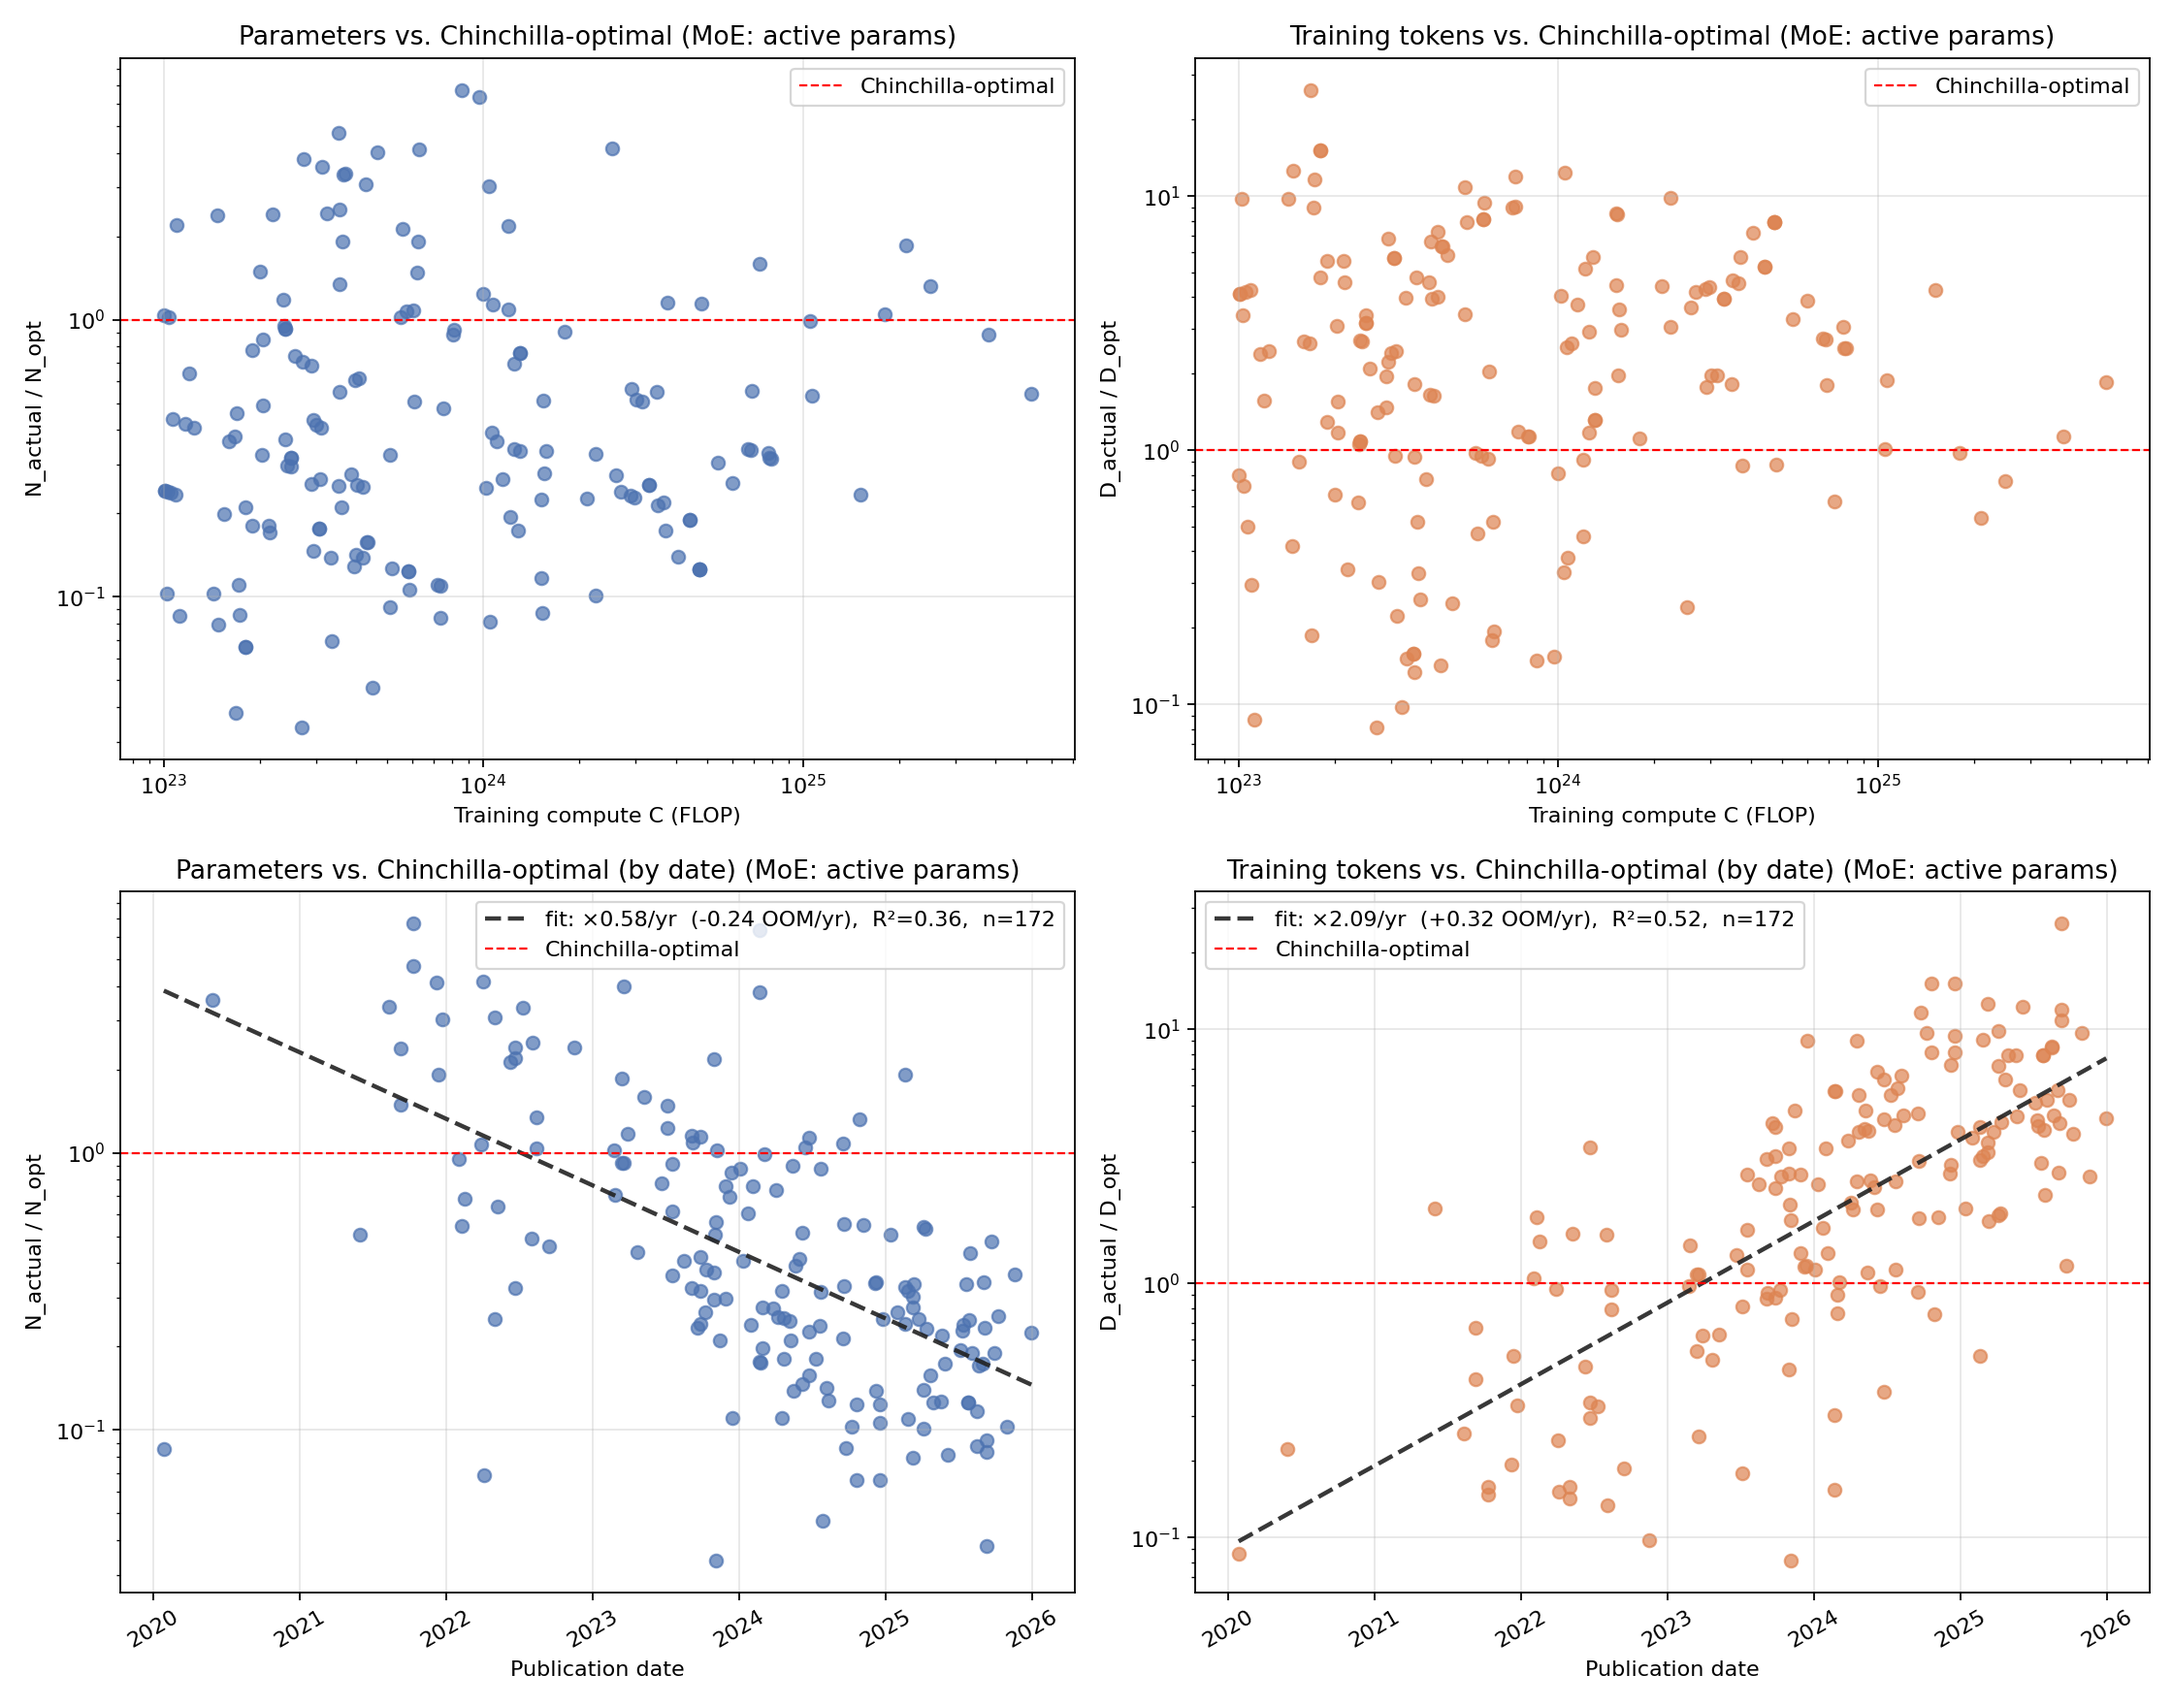
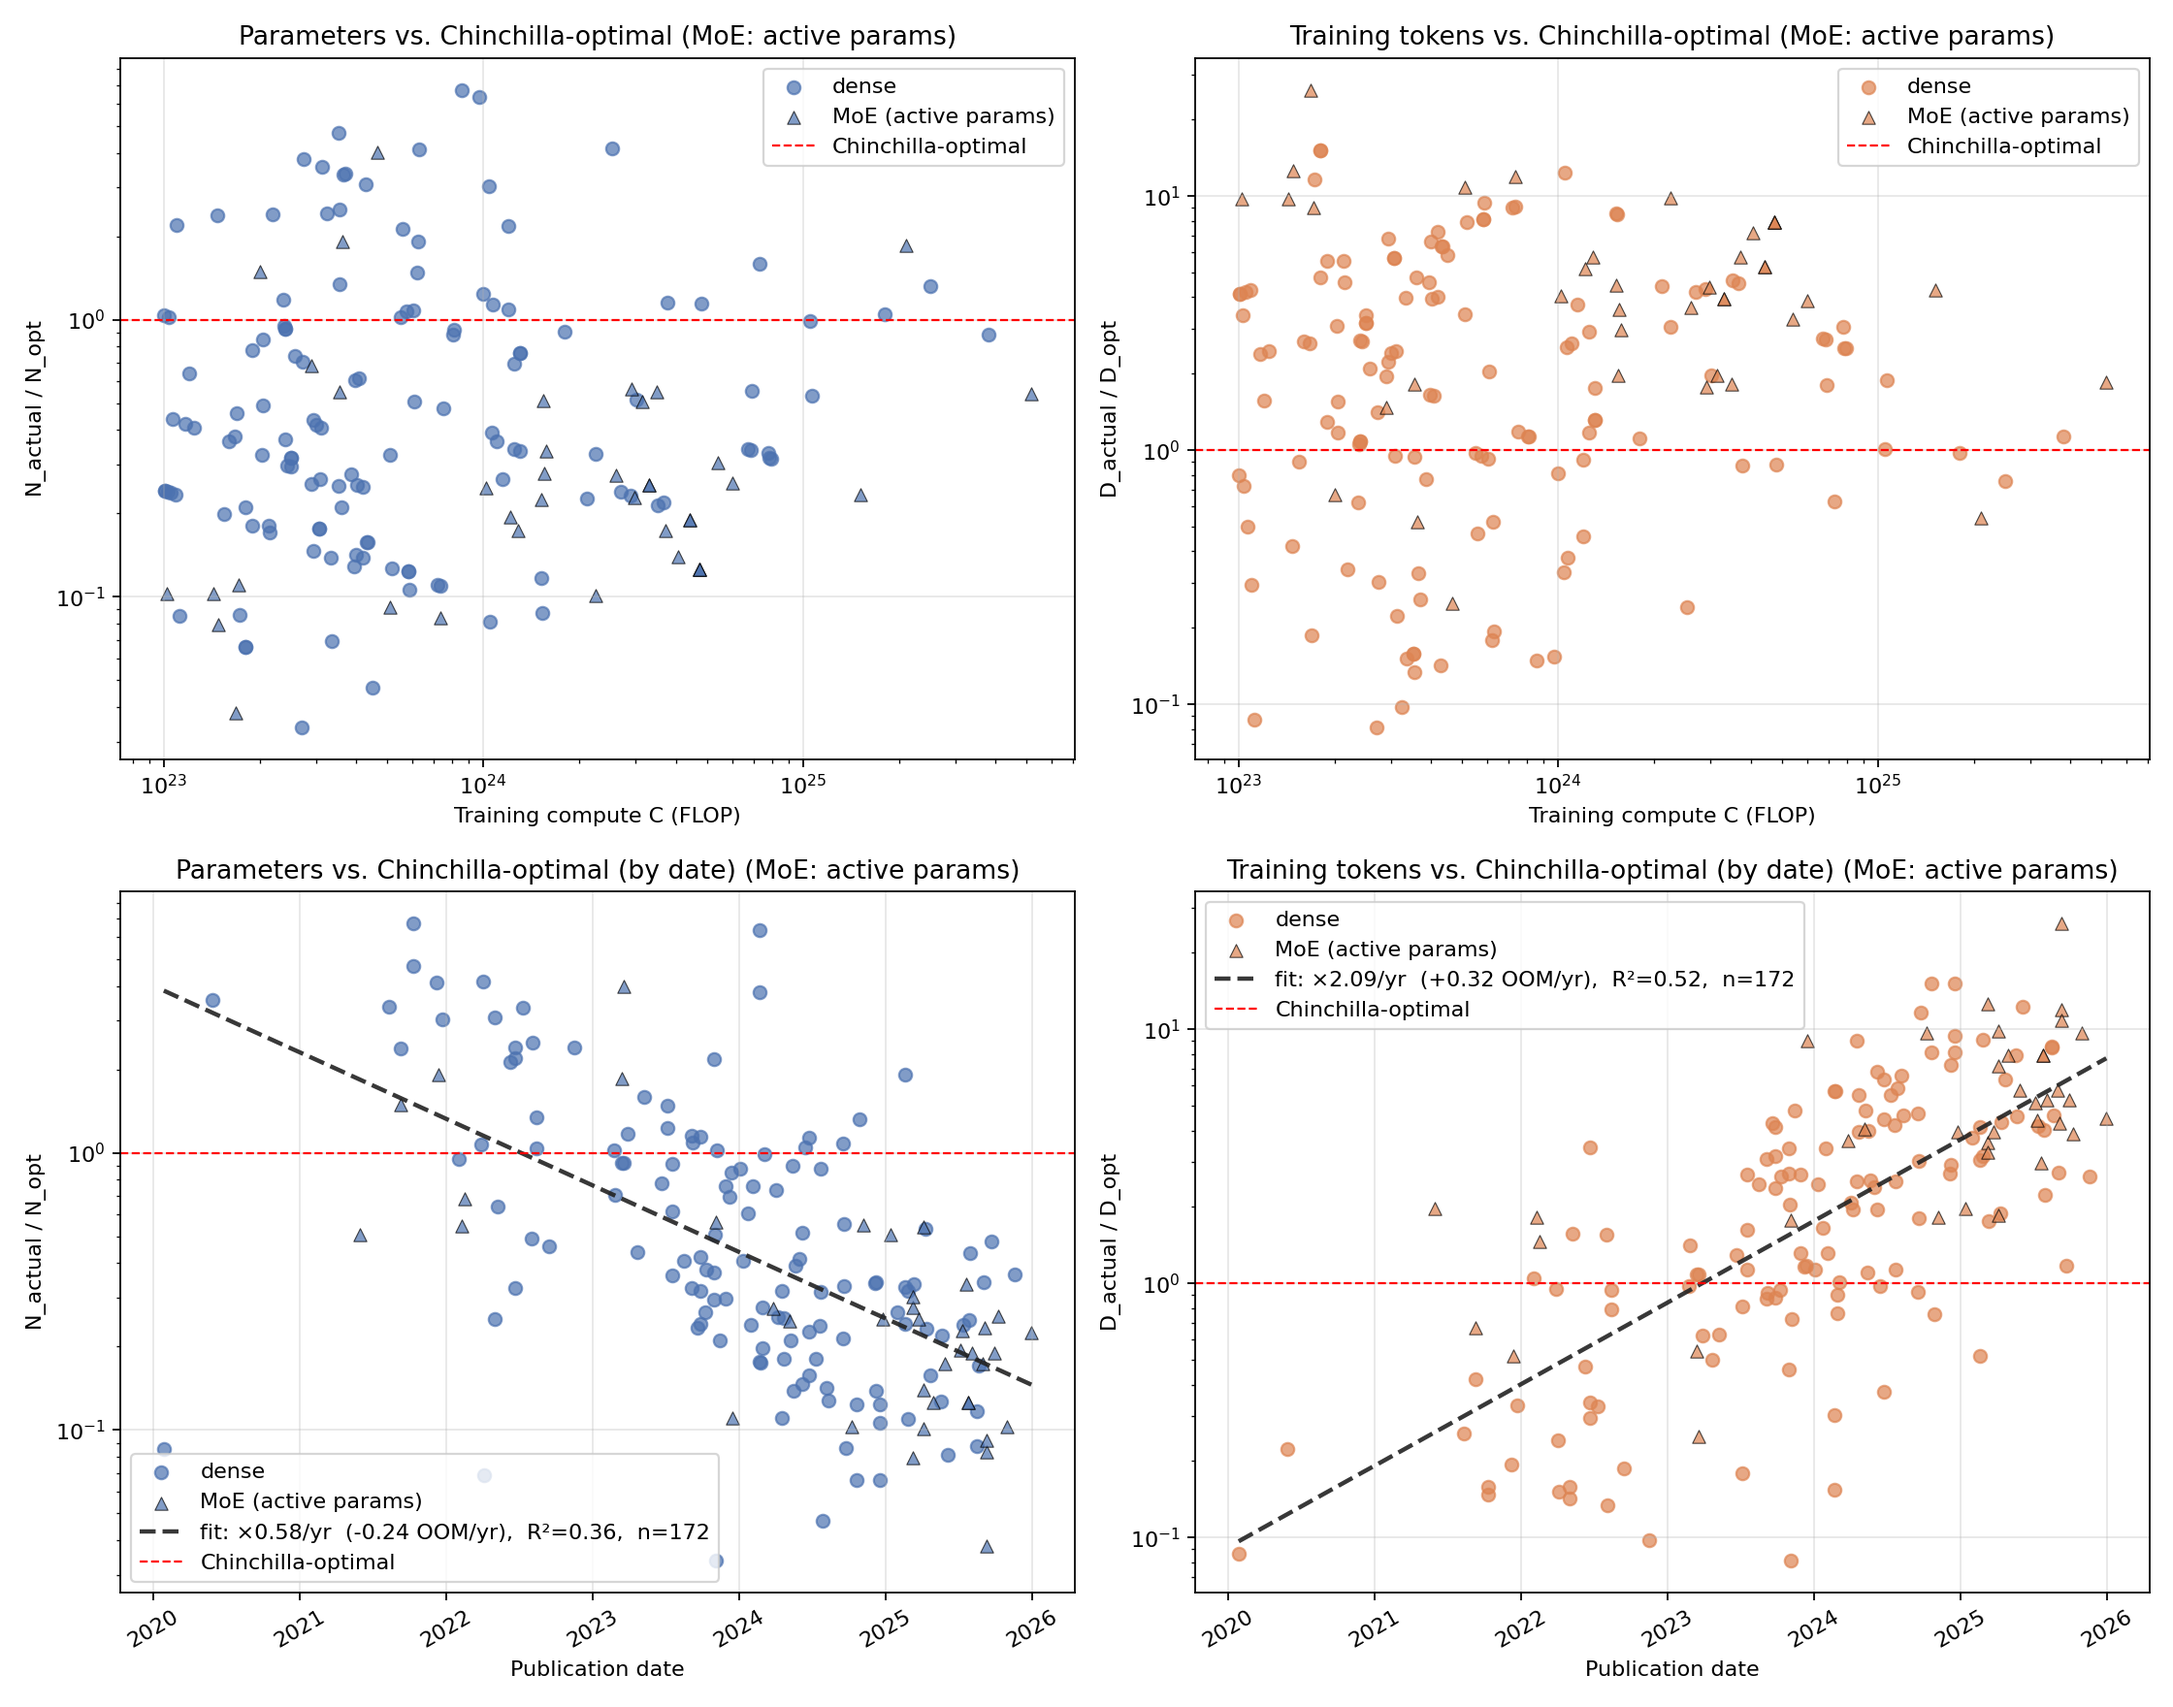
Distinguish dense vs MoE points with separate markers
Plot dense models as circles and MoE (active params) models as
black-edged triangles, with a legend on each subplot.

diff --git a/src/chinchilla_analysis/chinchilla_param_token_vs_optimal_moe_active.py b/src/chinchilla_analysis/chinchilla_param_token_vs_optimal_moe_active.py
@@ -19,6 +19,9 @@ OUT.mkdir(parents=True, exist_ok=True)
 C_DENSE_N = "#4C72B0"
 C_DENSE_D = "#DD8452"
 
+MARKER_DENSE = "o"
+MARKER_MOE = "^"
+
 
 def _fit_log_y_vs_date(dates, y):
     """Fit log10(y) = m * years + b, where years is float-year (e.g. 2024.5).
@@ -62,14 +65,18 @@ def _plot(dense, moe, title_suffix, out_png):
     (ax1, ax2), (ax3, ax4) = axes
 
     all_pts = pd.concat([dense, moe], ignore_index=True)
-    ax1.scatter(all_pts["Training compute (FLOP)"], all_pts["N_ratio"],
-                alpha=0.7, color=C_DENSE_N)
-    ax2.scatter(all_pts["Training compute (FLOP)"], all_pts["D_ratio"],
-                alpha=0.7, color=C_DENSE_D)
-    ax3.scatter(all_pts["Publication date"], all_pts["N_ratio"],
-                alpha=0.7, color=C_DENSE_N)
-    ax4.scatter(all_pts["Publication date"], all_pts["D_ratio"],
-                alpha=0.7, color=C_DENSE_D)
+
+    def _scatter(ax, frame, xcol, ycol, color):
+        ax.scatter(dense[xcol], dense[ycol], alpha=0.7, color=color,
+                   marker=MARKER_DENSE, label="dense")
+        ax.scatter(moe[xcol], moe[ycol], alpha=0.7, color=color,
+                   marker=MARKER_MOE, edgecolor="black", linewidth=0.5,
+                   label="MoE (active params)")
+
+    _scatter(ax1, all_pts, "Training compute (FLOP)", "N_ratio", C_DENSE_N)
+    _scatter(ax2, all_pts, "Training compute (FLOP)", "D_ratio", C_DENSE_D)
+    _scatter(ax3, all_pts, "Publication date", "N_ratio", C_DENSE_N)
+    _scatter(ax4, all_pts, "Publication date", "D_ratio", C_DENSE_D)
     _draw_fit_vs_date(ax3, all_pts["Publication date"],
                       all_pts["N_ratio"], "#222222")
     _draw_fit_vs_date(ax4, all_pts["Publication date"],
